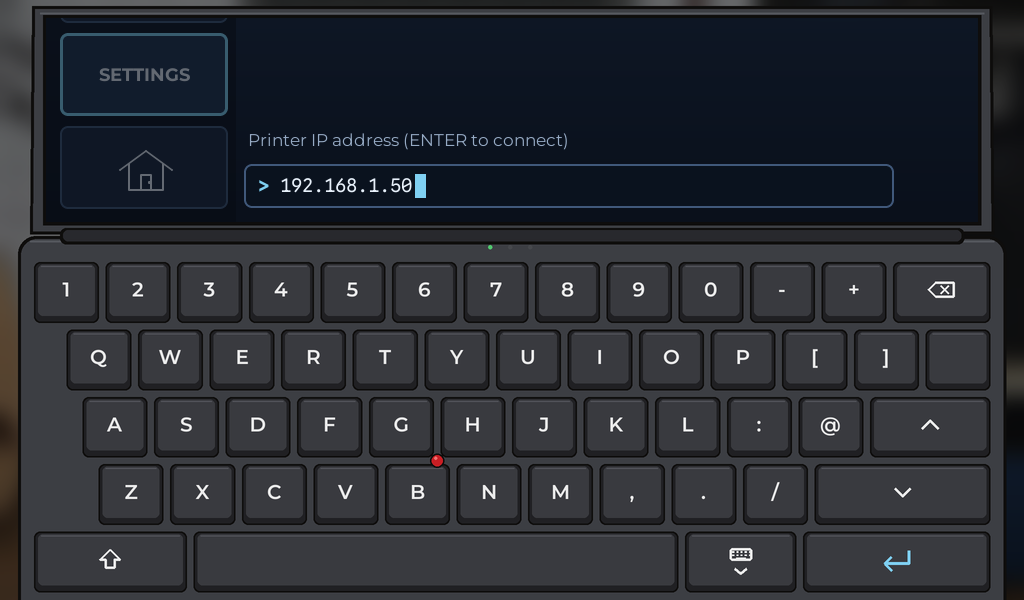
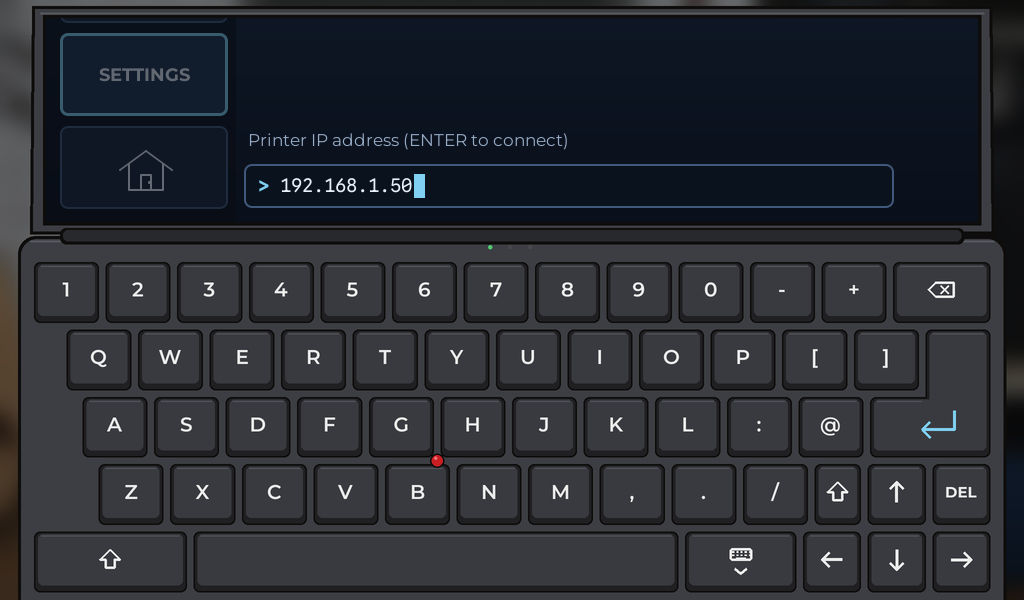
test(UI): laptop keyboard reference screenshots with the new keys
Claude-Session: https://claude.ai/code/session_01LqzgbadjNG3QvZfBBNSivr

Changed region(s): [[0.7812, 0.78, 0.9688, 0.99], [0.9062, 0.63, 0.9688, 0.72]]

diff --git a/FUNKY.md b/FUNKY.md
@@ -109,7 +109,7 @@ something is unread), **CONSOLE**, **SETTINGS**, **HOME** (back to the workshop)
 | Page | What |
 |---|---|
 | CONSOLE | Every reply and typed command, with its age (`4m08`), newest at the bottom. Warnings amber, errors red, typed G-code blue. The command line or the keyboard button opens the keyboard. |
-| Keyboard | The screen slides down, only its bottom part stays (the side column is pushed off and does nothing). Keys as Modern UI: SHIFT (lower case and symbols), ↑ / ↓ last 5 commands, ⌫, ENTER sends and stays open, hide key closes (the unsent text stays). |
+| Keyboard | The screen slides down, only its bottom part stays (the side column is pushed off and does nothing). Keys as Modern UI plus a cursor: SHIFT (left and right; lower case and symbols), L-shaped ENTER sends and stays open, arrow keys bottom right: ↑ / ↓ last 5 commands, ← / → move the cursor inside the line (typing inserts there, ⌫ erases before it, DEL at it), hide key closes (the unsent text stays). |
 | ALERTS | 21 slots (3 pages of 7), newest first: `Error:` / `Warning:` lines and INFO events (connection, job start / pause / end). The oldest falls out. Right column: ▲, filter ALL → ERR → WRN → INFO (pages count only what matches), ▼. A tap opens the whole text; the row is then read. |
 | SETTINGS 1/2 SYSTEM | BRIGHTNESS, SOUND, SCREEN DIMMING, ORIENTATION, CONNECTION (locked during a print; NETWORK asks for the IP on the keyboard), ABOUT, FACTORY RESET (asks first). Popups as in the DuetScreen7 CNC UI. |
 | SETTINGS 2/2 PERSONALIZATION | DRAWER INDICATOR (stored; used once the drawer pages exist). Room for more. |
